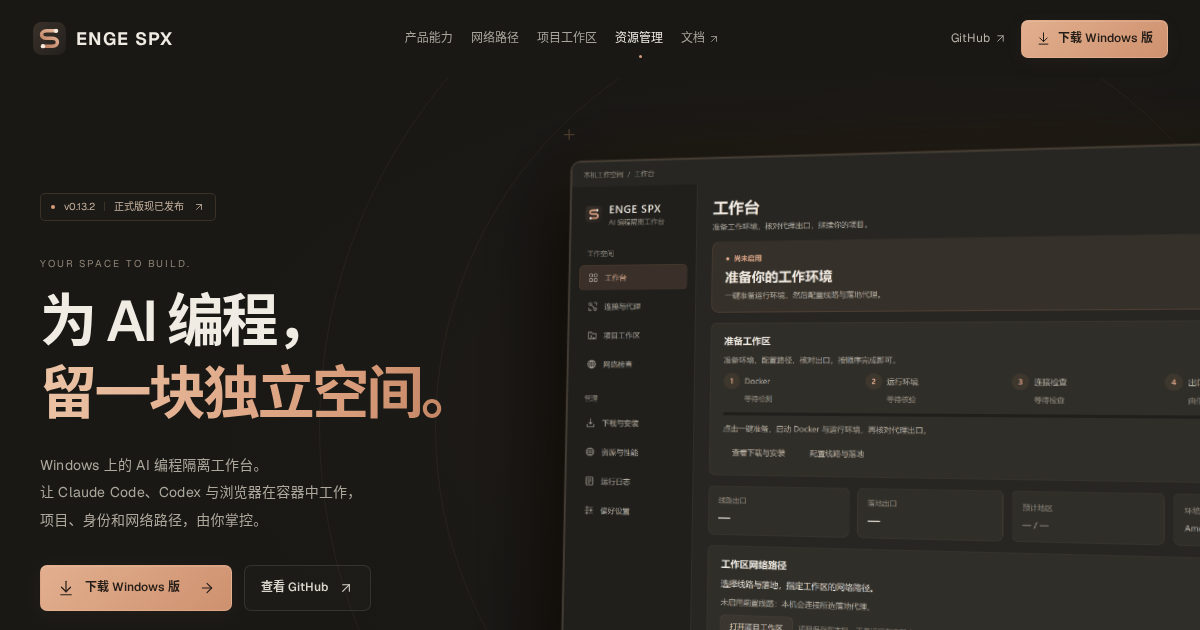
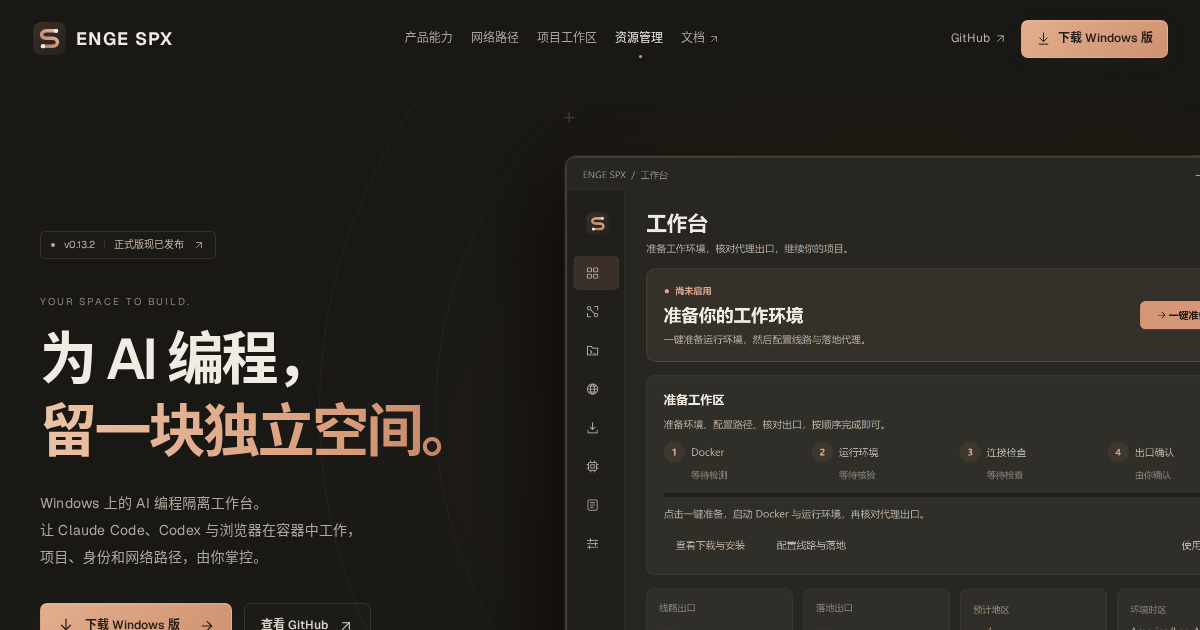
Keep website screenshots sharp on 1080p with native viewport-matched captures

diff --git a/website/src/app/globals.css b/website/src/app/globals.css
@@ -4805,7 +4805,7 @@ section[id] {
     }
 }
 
-/* Native 2x sources retain their pixels; the reading viewer remains front-facing. */
+/* Native sources retain their pixels; the reading viewer remains front-facing. */
 .hero-frame,
 .connection-shot,
 .resources-shot {
@@ -4867,9 +4867,9 @@ section[id] {
     border-radius: 0;
 }
 .gallery-image-viewport.is-reading .gallery-image {
-    width: 1280px;
+    width: var(--shot-width);
     max-width: none;
-    height: 1000px;
+    height: var(--shot-height);
     max-height: none;
     object-fit: fill;
 }
@@ -4954,5 +4954,94 @@ section[id] {
     .connection-shot,
     .resources-shot {
         transform: none !important;
+    }
+}
+
+/* Match native GUI text sizes to the space available on the product page. */
+.hero-visual {
+    min-height: 0;
+    height: auto;
+    aspect-ratio: auto;
+    align-self: center;
+}
+.hero-frame {
+    position: relative;
+    top: 0;
+}
+.hero-frame .shot-button {
+    aspect-ratio: 1.28;
+}
+.hero-frame .shot-button > img {
+    position: absolute;
+    inset: 0 auto auto 0;
+    width: 100%;
+    height: auto;
+}
+@media (min-width: 801px) {
+    .hero-main {
+        padding-block: 78px;
+    }
+    .hero-frame {
+        top: 0;
+    }
+}
+@media (min-width: 1251px) {
+    .network-detail {
+        grid-template-columns: 1.2fr 0.8fr;
+        gap: 72px;
+    }
+    .resources-layout {
+        grid-template-columns: 0.8fr 1.2fr;
+        gap: 72px;
+    }
+}
+/* A low-DPI panel cannot resolve tilted GUI text as well as a Retina panel.
+   Tilt only the decorative backplates there; keep every screenshot pixel flat. */
+@media (max-resolution: 1.25dppx) {
+    .hero-visual {
+        perspective: none;
+    }
+    .hero-frame,
+    .connection-shot,
+    .resources-shot {
+        transform: none !important;
+    }
+    .hero-frame::before,
+    .hero-frame::after {
+        content: "";
+        position: absolute;
+        inset: 0 0 30px;
+        z-index: -1;
+        border: 1px solid #b7926b30;
+        border-radius: 12px;
+        background: #29251f;
+        pointer-events: none;
+    }
+    .hero-frame::before {
+        transform: perspective(1800px) rotateY(-7deg) rotateZ(-2deg)
+            translate(12px, 14px);
+    }
+    .hero-frame::after {
+        transform: perspective(1800px) rotateY(-4deg) rotateZ(-1deg)
+            translate(6px, 7px);
+        background: #24221d;
+    }
+}
+
+/* On a 1080p desktop, one captured GUI point maps to one CSS pixel. */
+@media (min-width: 1650px) and (max-resolution: 1.25dppx) {
+    .hero-frame {
+        width: 962px;
+    }
+    .network-detail {
+        grid-template-columns: 842px minmax(0, 1fr);
+        gap: 64px;
+    }
+    .resources-layout {
+        grid-template-columns: minmax(0, 1fr) 842px;
+        gap: 64px;
+    }
+    .workspace-stage {
+        padding-inline: 99px;
     }
 }

diff --git a/website/src/components/interactions.tsx b/website/src/components/interactions.tsx
@@ -7,6 +7,7 @@ import {
     useRef,
     useState,
     type ReactNode,
+    type CSSProperties,
 } from "react";
 import {
     ArrowDownToLine,
@@ -135,12 +136,18 @@ export function SiteInteractions({ children }: { children: ReactNode }) {
                         key={selected}
                         className={`gallery-image-viewport ${reading ? "is-reading" : ""}`}
                         tabIndex={0}
+                        style={
+                            {
+                                "--shot-width": `${picture.width}px`,
+                                "--shot-height": `${picture.height}px`,
+                            } as CSSProperties
+                        }
                         aria-label="高清软件截图，放大后可滚动阅读"
                     >
                         <img
                             src={asset(picture.source)}
-                            width="2560"
-                            height="2000"
+                            width={picture.width * picture.pixelRatio}
+                            height={picture.height * picture.pixelRatio}
                             alt={picture.alt}
                             className="gallery-image"
                         />
@@ -175,7 +182,9 @@ export function SiteInteractions({ children }: { children: ReactNode }) {
                         </div>
                     </div>
                     <p className="gallery-caption">
-                        Windows 原生 2× 截图 · 2560 × 2000 ·{" "}
+                        Windows 原生 {picture.pixelRatio}× 截图 ·{" "}
+                        {picture.width * picture.pixelRatio} ×{" "}
+                        {picture.height * picture.pixelRatio} ·{" "}
                         <a
                             href={docs.screenshots}
                             target="_blank"
@@ -213,8 +222,8 @@ export function Screenshot({
                 <img
                     src={asset(item.source)}
                     alt={item.alt}
-                    width="1280"
-                    height="1000"
+                    width={item.width}
+                    height={item.height}
                     loading={priority ? "eager" : "lazy"}
                     fetchPriority={priority ? "high" : "auto"}
                     decoding="async"
@@ -251,7 +260,7 @@ export function HeroVisual() {
                 <Screenshot id="overview" priority />
                 <div className="hero-underlabel">
                     <span>YOUR PROJECT. ITS OWN WORKSPACE.</span>
-                    <span>WINDOWS / NATIVE 2×</span>
+                    <span>WINDOWS / NATIVE 3×</span>
                 </div>
             </div>
         </div>

diff --git a/website/src/lib/content.ts b/website/src/lib/content.ts
@@ -45,25 +45,37 @@ export const screenshots = [
         id: "overview",
         title: "工作台",
         alt: "ENGE SPX 0.13.2 Windows 工作台：一键准备、线路和落地出口、工作区路径",
-        source: "/screenshots/overview@2x.png",
+        source: "/screenshots/overview-web@3x.png",
+        width: 960,
+        height: 840,
+        pixelRatio: 3,
     },
     {
         id: "workspace",
         title: "项目工作区",
         alt: "真实项目工作区界面：本地目录、身份授权、Claude Code、Codex、终端及 Chromium 入口",
-        source: "/screenshots/workspace@2x.png",
+        source: "/screenshots/workspace-web@3x.png",
+        width: 1120,
+        height: 1050,
+        pixelRatio: 3,
     },
     {
         id: "connection",
         title: "连接与代理",
         alt: "真实连接与代理界面：分别选择落地、前置线路和本机代理",
-        source: "/screenshots/connection@2x.png",
+        source: "/screenshots/connection-web@3x.png",
+        width: 840,
+        height: 1050,
+        pixelRatio: 3,
     },
     {
         id: "resources",
         title: "资源与性能",
         alt: "真实资源预算界面：网关、会话、CLI 与 Chromium 的 CPU、内存上限",
-        source: "/screenshots/resources@2x.png",
+        source: "/screenshots/resources-web@3x.png",
+        width: 840,
+        height: 1000,
+        pixelRatio: 3,
     },
 ] as const;
 

diff --git a/docs/screenshots/README.md b/docs/screenshots/README.md
@@ -45,4 +45,31 @@ python docs/screenshots/capture.py --output .\build\readme-screenshots
 - [高清文件清单、逻辑尺寸、DPR 与 SHA-256](../images/0.13.2/2x/capture.json)
 - [工作台](../images/0.13.2/2x/overview.png) · [项目工作区](../images/0.13.2/2x/workspace.png) · [连接与代理](../images/0.13.2/2x/connection.png) · [资源预算](../images/0.13.2/2x/resources.png)
 
-捕获时间 2026-11-12 06:27 UTC，源码 `f607efda4fbbd839a2ed710fce48e7637d73fe20`，应用版本 0.13.2。复现时设置 `QT_SCALE_FACTOR=2`；专用截图 workflow 默认也使用 2×。原始 1× 文件保留供历史记录使用。
+捕获时间 2026-11-12 06:27 UTC，源码 `f607efda4fbbd839a2ed710fce48e7637d73fe20`，应用版本 0.13.2。复现时设置 `QT_SCALE_FACTOR=2`；这是当时的 2× 捕获配置；当前专用 workflow 使用下面的官网适配配置。原始 1× 文件保留供历史记录使用。
+
+## 官网尺寸适配版本（3×）
+
+为避免在普通 1080p 显示器上将完整宽窗口过度缩小，官网使用真实软件的响应式窗口重新截取各页面。工作台、连接和资源页面显示软件本身已有的紧凑导航；项目页保留完整导航。仅改变真实窗口尺寸和 Windows Qt DPI，没有改变字体、控件、状态或应用源码。
+
+| 页面 | 逻辑窗口 | PNG 原始像素 |
+| --- | --- | --- |
+| 工作台 | 960×840 | 2880×2520 |
+| 项目工作区 | 1120×1050 | 3360×3150 |
+| 连接与代理 | 840×1050 | 2520×3150 |
+| 资源预算 | 840×1000 | 2520×3000 |
+
+- Windows 捕获时间：2026-11-12 07:12 UTC。
+- [原生 Windows 任务 43173501032](https://github.com/engeeeee/ENGE-SPX/actions/runs/43173501032)，源码 `90a7fec5be471c24b0ff2edffb69d9972232c790`，应用仍为 0.13.2。
+- [原图清单与 SHA-256](../images/0.13.2/web-3x/capture.json)。
[1 lines of base64/hex data omitted]
+- [工作台](../images/0.13.2/web-3x/overview.png) · [项目工作区](../images/0.13.2/web-3x/workspace.png) · [连接与代理](../images/0.13.2/web-3x/connection.png) · [资源预算](../images/0.13.2/web-3x/resources.png)。
+
+复现：
+
+```powershell
+$env:PYTHONPATH = 'src'
+$env:QT_SCALE_FACTOR = '3'
+python docs/screenshots/capture.py --profile website --output .\build\website-screenshots
+```
+
+官网首页展示区允许裁切窗口底部，点击可查看完整 PNG。普通 DPI 屏幕不对软件图片做透视变换，立体效果由独立背板和阴影承担；高 DPI 屏幕保留轻微透视。1×、2× 和本批原图分别保留，README 仍引用完整导航的 2× 图。

diff --git a/website/DESIGN.md b/website/DESIGN.md
@@ -44,7 +44,7 @@
 | 圆角 | 控件 5–7px，图片/大面板 9–12px |
 | 动效 | 轻量滚动呈现、按钮反馈、SVG 路径、背景轨道；减少动态效果时停用 |
 
-展示区使用克制的静态透视，阅读模式保持正视；高清图在浏览器内缩小展示，原始像素保留供放大阅读。阴影、背景与提示属于网页展示层，截图内部内容不修改。所有静态字体、图标和产品图片由本站提供，不依赖第三方运行时图片服务。
+在 1920px、100% 缩放的普通 DPI 桌面，四张软件截图按原始逻辑宽度展示，避免额外缩字。普通 DPI 展示区保持截图正视，将透视放在独立背板上；高 DPI 保留轻微静态透视，阅读模式保持正视。按展示空间捕获原生窗口，减少软件文字的缩小幅度；原始像素保留供放大阅读。阴影、背景与提示属于网页展示层，截图内部内容不修改。所有静态字体、图标和产品图片由本站提供，不依赖第三方运行时图片服务。
 
 ## 交互与可访问性
 
@@ -55,5 +55,7 @@
 1× 图：Windows 原生任务 `43058430309`，1280×1000。
 
 2× 图：Windows 原生任务 [43168136679](https://github.com/engeeeee/ENGE-SPX/actions/runs/43168136679)，2560×2000，逻辑窗口 1280×1000、DPR 2。源码 `f607efda4fbbd839a2ed710fce48e7637d73fe20` 的应用代码与 0.13.2 正式版一致。清单位于 `public/screenshots/capture-2x.json`。
+
+3× 尺寸适配图：[Windows 任务 43173501032](https://github.com/engeeeee/ENGE-SPX/actions/runs/43173501032)，源码 `90a7fec5be471c24b0ff2edffb69d9972232c790`。工作台为 960×840 逻辑尺寸，项目为 1120×1050，连接为 840×1050，资源为 840×1000，各自以 DPR 3 原生渲染；清单位于 `public/screenshots/capture-web-3x.json`。改变窗口尺寸触发软件已有的响应式导航，不修改内部 UI。首屏可裁切底部，完整图始终可打开。
 
 官网预览从实际浏览器运行的网页生成，不是设计稿或图像生成结果。按维护者要求，只保留快速构建与关键流程验证，不以此冒充所有设备、屏幕阅读器或真实账号的完整验收。

diff --git a/website/README.md b/website/README.md
@@ -42,9 +42,9 @@ scripts/deploy-static.py          Linux 上的静态目录原子发布
 
 ## 软件截图的真实性与清晰度
 
-软件窗口直接使用仓库 Windows 原生运行截图。`*@2x.png` 是同一 1280×1000 逻辑窗口在 Windows 2× DPI 下重新渲染得到的 **2560×2000 PNG**，没有 AI 放大、重绘或伪造运行状态。原图与 SHA-256 见 `public/screenshots/capture-2x.json`。
+软件窗口直接使用原生 Windows 3× DPI 截图，最高 **3360×3150 PNG**。真实窗口的逻辑尺寸按页面展示空间选择，让软件文字少被缩小，而非简单把原图插值放大。工作台、连接和资源页使用软件原有紧凑导航；项目页使用完整导航。像素、逻辑尺寸与 SHA-256 见 `public/screenshots/capture-web-3x.json`，旧 1× / 2× 图片保留。
 
-展示区保留克制的静态透视和阴影，使用原生 2× 截图保持清晰；阅读模式正视展示。点击图片可适应窗口查看、放大到软件逻辑尺寸滚动阅读，或打开高清原图。网页中的网络图与挂载图是明确的架构示意，不是软件界面。
+在 1920px、100% 缩放的普通 DPI 桌面，四张软件截图按原始逻辑宽度展示，避免额外缩字。普通 DPI 屏幕上的截图保持正视，独立背板与阴影提供立体感；高 DPI 屏幕保留克制透视。首屏只裁切底部，图片内部内容不修改。点击可适应窗口查看、按各图的原始逻辑尺寸滚动阅读，或打开完整高清 PNG。网页中的网络图与挂载图是明确的架构示意，不是软件界面。
 
 当前资料对应 ENGE SPX **0.13.2**。软件截图使用空配置，保留尚未确认连接时禁用的工具按钮。事实、设计与边界见 [DESIGN.md](DESIGN.md)，完整产品说明见 [项目 README](https://github.com/engeeeee/ENGE-SPX#readme)。
 
